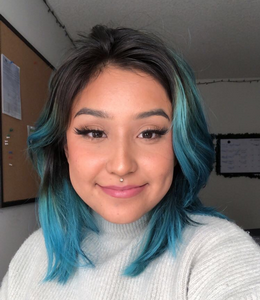
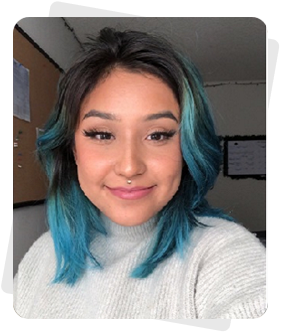
artist images fixed

diff --git a/src/pages/Feedbacks.js b/src/pages/Feedbacks.js
@@ -28,7 +28,7 @@ function Feedbacks() {
       >
         <Card
           style={{
-            width: "250px",
+            width: "200px",
             alignItems: "center",
             backgroundColor: "transparent",
           }}
@@ -37,7 +37,6 @@ function Feedbacks() {
           <Card.Img
             variant="top"
             style={{
-              width: "240px",
               borderRadius: "10px",
             }}
             src={exp1}
@@ -105,7 +104,7 @@ function Feedbacks() {
 
         <Card
           style={{
-            width: "250px",
+            width: "200px",
             alignItems: "center",
             backgroundColor: "transparent",
           }}
@@ -114,8 +113,6 @@ function Feedbacks() {
           <Card.Img
             variant="top"
             style={{
-              width: "240px",
-              height: "285px",
               borderRadius: "10px",
             }}
             src={exp2}
@@ -183,7 +180,7 @@ function Feedbacks() {
 
         <Card
           style={{
-            width: "250px",
+            width: "200px",
             alignItems: "center",
             backgroundColor: "transparent",
           }}
@@ -192,8 +189,6 @@ function Feedbacks() {
           <Card.Img
             variant="top"
             style={{
-              width: "240px",
-              height: "285px",
               borderRadius: "10px",
             }}
             src={exp3}
@@ -261,7 +256,7 @@ function Feedbacks() {
 
         <Card
           style={{
-            width: "250px",
+            width: "200px",
             alignItems: "center",
             backgroundColor: "transparent",
           }}
@@ -270,8 +265,6 @@ function Feedbacks() {
           <Card.Img
             variant="top"
             style={{
-              width: "240px",
-              height: "285px",
               borderRadius: "10px",
             }}
             src={exp4}
@@ -339,7 +332,7 @@ function Feedbacks() {
 
         <Card
           style={{
-            width: "250px",
+            width: "200px",
             alignItems: "center",
             backgroundColor: "transparent",
           }}
@@ -348,8 +341,6 @@ function Feedbacks() {
           <Card.Img
             variant="top"
             style={{
-              width: "240px",
-              height: "285px",
               borderRadius: "10px",
             }}
             src={exp5}
@@ -417,7 +408,7 @@ function Feedbacks() {
 
         <Card
           style={{
-            width: "250px",
+            width: "200px",
             alignItems: "center",
             backgroundColor: "transparent",
           }}
@@ -426,8 +417,6 @@ function Feedbacks() {
           <Card.Img
             variant="top"
             style={{
-              width: "240px",
-              height: "285px",
               borderRadius: "10px",
             }}
             src={exp6}
@@ -486,7 +475,7 @@ function Feedbacks() {
 
         <Card
           style={{
-            width: "250px",
+            width: "200px",
             alignItems: "center",
             backgroundColor: "transparent",
           }}
@@ -495,8 +484,6 @@ function Feedbacks() {
           <Card.Img
             variant="top"
             style={{
-              width: "240px",
-              height: "285px",
               borderRadius: "10px",
             }}
             src={exp7}

diff --git a/src/pages/Feedback.scss b/src/pages/Feedback.scss
@@ -22,6 +22,9 @@
   font-family: "Inter";
   font-weight: 600;
 }
+.expert_image {
+  border-radius: 10px;
+}
 // .row-space {
 //   width: "250px";
 //   align-items: "center";
